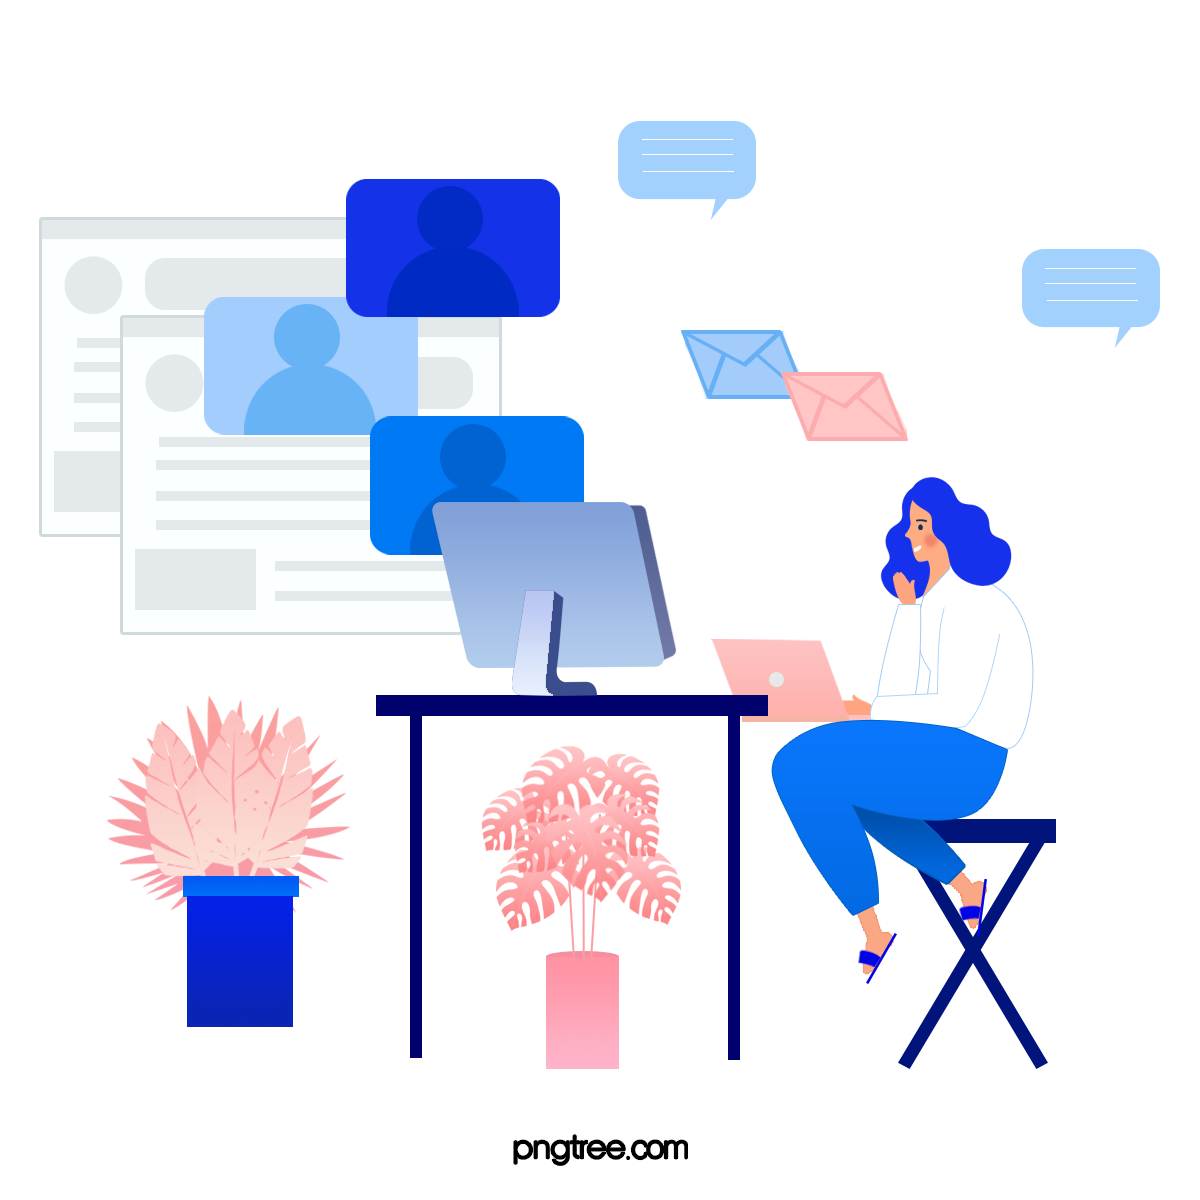
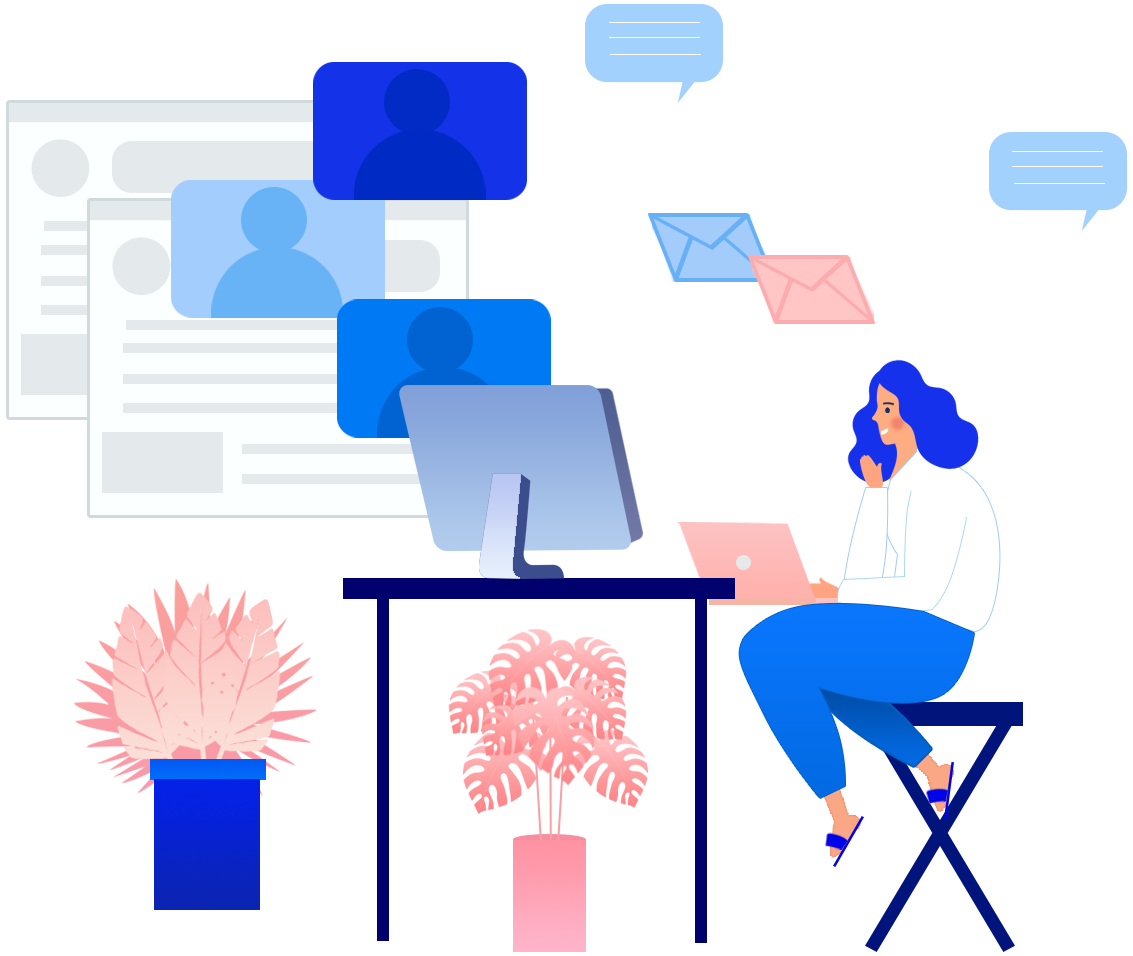
finalizando site-conceito

diff --git a/style.css b/style.css
@@ -11,6 +11,14 @@ body {
 	color: #d65845;
 }
 
+p.introducao, p.texto1, div.nome {
+	font-weight: bold;
+}
+
+div.nome {
+	font-family: Arial, sans-serif;
+}
+
 .cabecalho {
 	margin: 20px;
 	padding: 20px;
@@ -25,20 +33,71 @@ body {
 }
 
 .nome {
-	display: inline;
+	display: inline-block;
 	text-align: center;
 }
 
 #cabecalho-info {
 	margin: 20px;
-	width: 80em;
+	width: 70em;
 	text-align: center;
 	float: left;
+}
+
+#espaco-about, #espaco-scheduling, #espaco-pricing, #espaco-more, #espaco-sign-in {
+	display: inline;
+}
+
+#espaco-about{
+	margin-right: 2em;
+}
+
+#espaco-scheduling{
+	margin-right: 2em;
+}
+
+#espaco-pricing{
+	margin-right: 2em;
+}
+
+#espaco-sign-in{
+	margin-right: 4em;
+}
+
+.botao-try {
+	background-color: white;
+	border-style: solid;
+	border-color: #d65845;
+	border-radius: 10px;
+	text-align: center;
+	text-decoration: none;
+	font-weight: bold;
+	display: inline-block;
+	padding: 1em 2em;
+	cursor: pointer;
 }
 
 #cabecalho-cadastro {
 	margin: 20px;
 	float: left;
+}
+
+.cabecalho-info, .cabecalho-cadastro {
+	font-family: Arial, sans-serif;
+	font-weight: 600;
+}
+
+a:link, a:visited {
+	text-decoration: none;
+	color: black;
+}
+
+a:hover {
+	color: #f00;
+}
+
+a:active {
+	text-decoration: none;
 }
 
 div.conteudo-principal {
@@ -50,31 +109,76 @@ div.conteudo-principal {
 }
 
 .conteudo {
-	width: 40em;
-	padding-top: 20em;
+	width: 45em;
+	padding-top: 17em;
 	padding-left: 5em;
 	float: left;
-	border-style: solid;
 }
 
 .introducao {
 	font-family: Arial, sans-serif;
-	font-size: 130%
+	font-size: 150%;
+	color:black;
 }
 
 .texto1 {
 	font-family: Arial, sans-serif;
-	font-size: 300%
+	font-size: 350%;
+	color:black;
 }
 
 .texto2 {
 	font-family: Optima, sans-serif;
-	font-size: 130%
+	font-size: 150%;
+	color:black;
+}
+
+div.input-email {
+	background-color: white;
+	width: 30em;
+	height: 4em;
+	border-radius: 10px
+}
+
+input {
+	border: none;
+	border-radius: 10px;
+	font-size: 20px;
+	text-align: center;
+	margin-top: 18px;
+	width: 16em;
+}
+
+input:focus {
+	box-shadow: 0 0 0 0;
+	border: 0 none;
+	outline: 0;
+}
+
+.botao-get-started {
+	float: right;
+	background-color: #d65845;
+	color: white;
+	text-decoration: none;
+	text-align: center;
+	padding: 1em 2em;
+	border: none;
+	border-radius: 5px;
+	margin-top: 6.5px;
+	margin-right: 5px;
+	font-size: 1em;
+}
+
+.botao-get-started:focus {
+	box-shadow: 0 0 0 0;
+	border: 0 none;
+	outline: 0;
 }
 
 img {
-	width: 60%;
-	height: 60em;
+	width: 52%;
+	height: 52em;
+	margin-right: 2em;
 	float: right;
 }
 

diff --git a/index.html b/index.html
@@ -12,14 +12,14 @@
 				<div class="nome">Web<span id="cor">Stats</span></div>
 			</div>
 			<div id="cabecalho-info">
-				<a href="">About Us</a>
-				<a href="">Scheduling</a>
-				<a href="">Pricing</a>
-				<a href="">More</a>
+				<div id="espaco-about"><a href="#"><span class="cabecalho-info">About Us</span></a></div>
+				<div id="espaco-scheduling"><a href="#"><span class="cabecalho-info">Scheduling</span></a></div>
+				<div id="espaco-pricing"><a href="#"><span class="cabecalho-info">Pricing</span></a></div>
+				<div id="espaco-more"><a href="#"><span class="cabecalho-info">More</span></a></div>
 			</div>
 			<div id="cabecalho-cadastro">
-				<a href="">Sign in</a>
-				<a href="">Try for Free</a>
+				<div id="espaco-sign-in"><a href=""><span class="cabecalho-cadastro">Sign in</span></a></div>
+				<button class="botao-try"><a href="#">Try for Free</button>
 			</div>
 		</div>
 
@@ -27,11 +27,11 @@
 			<div class="conteudo">
 				<div><p class="introducao">INTRODUCTION</p></div>
 				<br>
-				<div><p class="texto1">WebStats -<br>best Analytics Solution<br>for your Website.</p></div>
+				<div><p class="texto1">WebStats -<br>best <span id="cor">Analytics Solution</span><br>for your Website.</p></div>
 				<br>
 				<div><p class="texto2">Simplify website management with our app.<br>All important data is now in one place.</p></div>
 				<br>
-				<div><input type="text" placeholder="Your E-mail address"></div>
+				<div class="input-email"><input type="text" placeholder="Your E-mail address"><button class="botao-get-started"><a href="#">Get Started</button></div>
 			</div>
 			<img src="imagens/imagem-principal.png">
 		</div>
